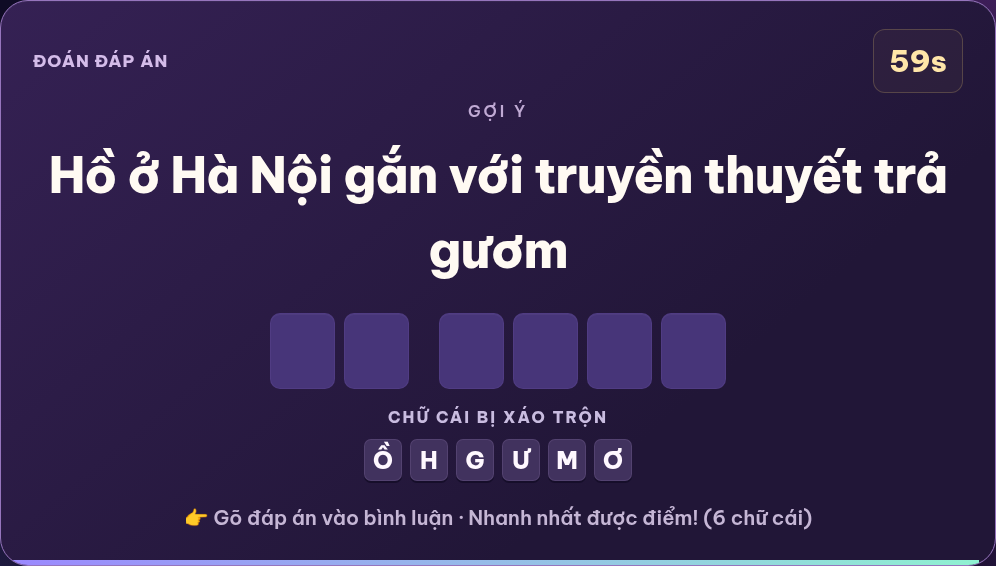
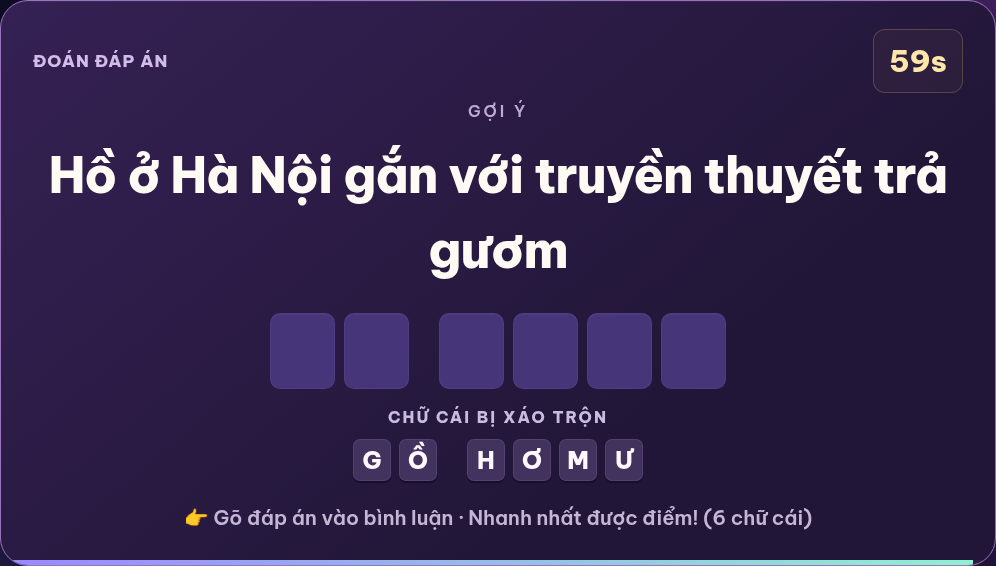
Group shuffled letter row by word lengths to match empty answer slots

Changed region(s): [[0.3424, 0.7509, 0.6536, 0.871], [0.9649, 0.9912, 0.996, 1.0]]

diff --git a/public/overlay.js b/public/overlay.js
@@ -24,7 +24,7 @@ function question(){const q=state.question;const key=JSON.stringify([state.round
     for(let i=0;i<letters.length;i++){const slot=document.createElement('span');slot.className='answer-slot';slot.setAttribute('aria-hidden','true');group.append(slot);}
     $('answerSlots').append(group);
    }
-   for(const c of groups.flat()){const tile=document.createElement('span');tile.className='letter';tile.textContent=c;$('letters').append(tile);}
+   for(const letters of groups){const word=document.createElement('span');word.className='scrambled-word';word.setAttribute('aria-label',`${letters.length} chữ cái xáo trộn`);for(const c of letters){const tile=document.createElement('span');tile.className='letter';tile.textContent=c;word.append(tile);}$('letters').append(word);}
 
   }
   if(q.type==='choice')q.options.forEach((o,i)=>{const e=document.createElement('div'),b=document.createElement('b');e.className='option';b.textContent='ABCD'[i];e.append(b,document.createTextNode(o));$('options').append(e);});

diff --git a/public/style.css b/public/style.css
@@ -55,3 +55,7 @@
 .compact-slots .answer-word{gap:6px}
 #letters.compact-letters .letter{width:28px;min-width:28px;height:32px;font-size:19px;border-radius:5px}
 .question-card[data-type=emoji] #prompt{font-size:82px!important;margin:8px auto 15px}
+#letters.letters{column-gap:30px;row-gap:12px}
+.scrambled-word{display:inline-flex;flex-wrap:wrap;justify-content:center;gap:8px;max-width:100%}
+#letters.compact-letters{column-gap:22px}
+.compact-letters .scrambled-word{gap:6px}

diff --git a/README.md b/README.md
@@ -13,7 +13,7 @@ Các câu đoán đáp án, xếp chữ, đố vui và emoji hiển thị đúng
 1. **Câu hỏi / gợi ý.**
 2. **Hàng ô đáp án trống hoàn toàn**, không chữ, không dấu hỏi, chia nhóm theo số chữ của mỗi từ: HỒ GƯƠM → 2 ô trống, khoảng cách, 4 ô trống.
 3. Nhãn **CHỮ CÁI BỊ XÁO TRỘN**.
-4. **Hàng ô nhỏ riêng bên dưới**, chứa toàn bộ chữ cái đảo vị trí, giữ dấu tiếng Việt.
+4. **Hàng ô nhỏ riêng bên dưới**, chứa chữ cái đảo vị trí, giữ dấu tiếng Việt và **chia nhóm theo từng từ giống hàng ô trống**: HỒ GƯƠM → 2 ô chữ, khoảng cách, 4 ô chữ.
 
 Hai hàng tách biệt: không đặt chữ vào ô đáp án trước khi chốt câu. Chữ xáo trộn giữ nguyên trong suốt câu, không đổi mỗi lần nhận bình luận. Câu tính toán và trắc nghiệm không hiện hai hàng này.
 
